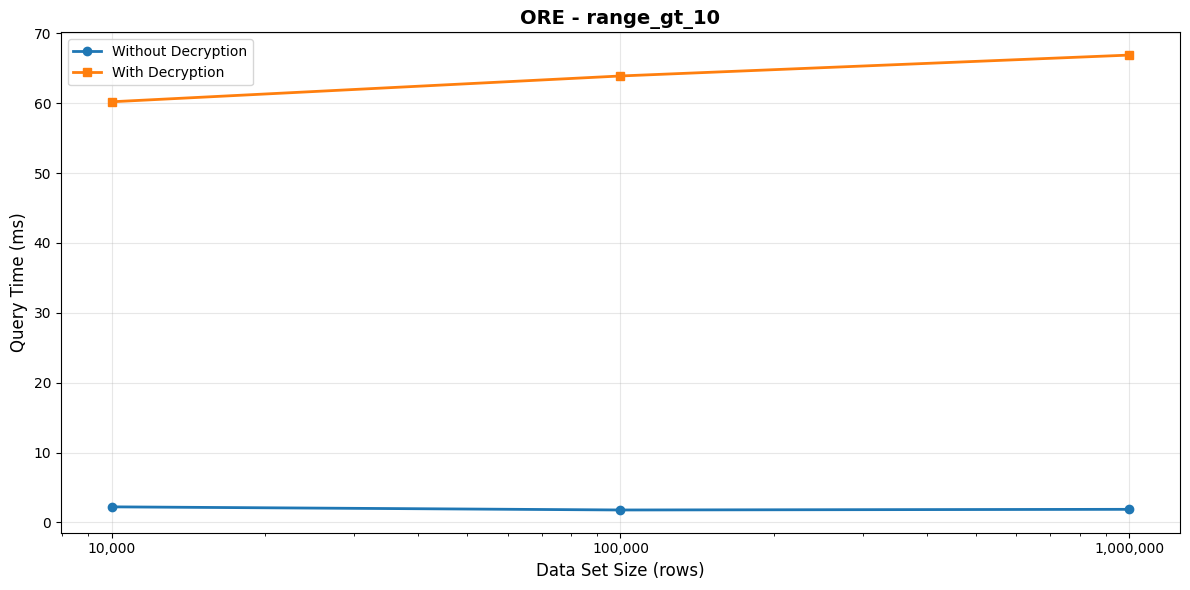
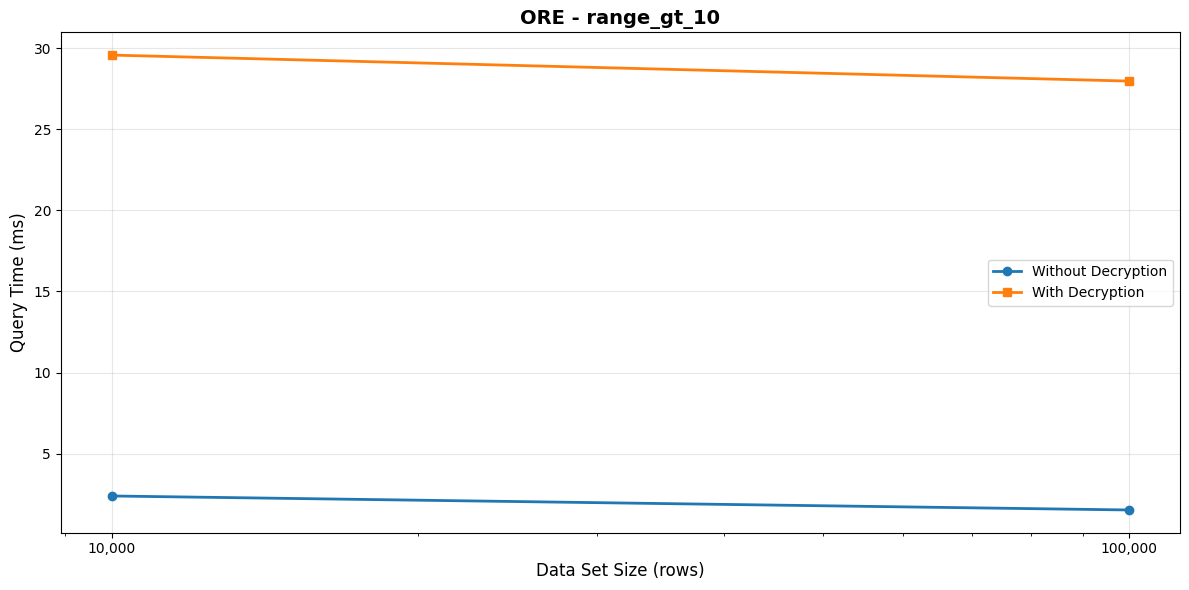
results: refresh bench output with the new criterion config
First clean baseline after #211 (EQL range-operator inlining), the
ore.rs scenario rework, and the criterion / mise fixes in this branch.

Headline numbers at 100k rows on the integer_encrypted table:

  range_lt_10               (natural):           ~1.52 ms
  range_lt_100              (natural):           ~6.62 ms
  range_lt_ordered_10       (natural):          ~402   ms   [Top-N sort, wide CI: 216-621 ms]
  range_lt_hybrid_ordered_10 (natural WHERE,
                              extractor ORDER BY): ~1.27 ms   [no Sort node]
  range_lt_ore_ordered_10   (fully extractor):    ~1.24 ms   [same plan as hybrid]

The natural-form ordered scenario still carries a wide CI (the Top-N
sort cost varies with where the pivot falls in the random data), but
the absolute time is well below the credential-expiry hazard that
dominated earlier measurements. The criterion `measurement_time = 30s`
bump from f709a4f is doing its job — every other scenario lands with a
tight CI well inside its mean.

Includes new group_by_rows_10000.json / group_by_rows_100000.json
from the GROUP BY bench added in e96c38c, plus refreshed PNG charts.
The 1M-row ORE results file is unchanged (still zero-length from the
earlier interrupted run); a future sweep will fill it in.

diff --git a/report/BENCHMARK_REPORT.md b/report/BENCHMARK_REPORT.md
@@ -96,9 +96,9 @@ ON string_encrypted_10000 (
 
 | Data Set Size | Query Time (no decrypt) | Query Time (with decrypt) |
 |---------------|-------------------------|---------------------------|
-| 10,000 | ⚠ 119.93ms | ⚠ 122.15ms |
-| 100,000 | ⚠ 1.669s | ⚠ 787.01ms |
-| 1,000,000 | ⚠ 7.827s | ⚠ 7.836s |
+| 10,000 | 422.00μs | 415.23μs |
+| 100,000 | 400.64μs | 427.65μs |
+| 1,000,000 | ⚠ 8.012s | ⚠ 8.012s |
 
 ![Query Performance - EXACT/eql_cast](query_exact_eql_cast_chart.png)
 
@@ -138,9 +138,9 @@ ON string_encrypted_10000 (
 
 | Data Set Size | Query Time (no decrypt) | Query Time (with decrypt) |
 |---------------|-------------------------|---------------------------|
-| 10,000 | 410.44μs | 414.48μs |
-| 100,000 | 395.17μs | 395.38μs |
-| 1,000,000 | 399.96μs | 404.21μs |
+| 10,000 | 393.98μs | 397.50μs |
+| 100,000 | 392.83μs | 404.50μs |
+| 1,000,000 | 401.06μs | 408.97μs |
 
 ![Query Performance - EXACT/eql_hash](query_exact_eql_hash_chart.png)
 
@@ -182,9 +182,8 @@ ON string_encrypted_10000 (
 
 | Data Set Size | Query Time (no decrypt) | Query Time (with decrypt) |
 |---------------|-------------------------|---------------------------|
-| 10,000 | 930.90μs | 63.38ms |
-| 100,000 | 3.35ms | 68.21ms |
-| 1,000,000 | 21.23ms | 83.97ms |
+| 10,000 | 1.07ms | 28.26ms |
+| 1,000,000 | 17.53ms | 42.35ms |
 
 ![Query Performance - MATCH/eql_bloom](query_match_eql_bloom_chart.png)
 
@@ -226,9 +225,8 @@ ON string_encrypted_10000 (
 
 | Data Set Size | Query Time (no decrypt) | Query Time (with decrypt) |
 |---------------|-------------------------|---------------------------|
-| 10,000 | ⚠ 263.49ms | ⚠ 321.93ms |
-| 100,000 | ⚠ 341.72ms | ⚠ 401.96ms |
-| 1,000,000 | ⚠ 399.14ms | ⚠ 450.21ms |
+| 10,000 | 751.37μs | 27.53ms |
+| 1,000,000 | ⚠ 386.64ms | ⚠ 418.49ms |
 
 ![Query Performance - MATCH/eql_cast_firstname](query_match_eql_cast_firstname_chart.png)
 
@@ -270,9 +268,8 @@ ON string_encrypted_10000 (
 
 | Data Set Size | Query Time (no decrypt) | Query Time (with decrypt) |
 |---------------|-------------------------|---------------------------|
-| 10,000 | ⚠ 146.33ms | ⚠ 205.98ms |
-| 100,000 | ⚠ 119.51ms | ⚠ 177.16ms |
-| 1,000,000 | ⚠ 127.20ms | ⚠ 190.63ms |
+| 10,000 | 1.25ms | 30.30ms |
+| 1,000,000 | ⚠ 132.59ms | ⚠ 157.06ms |
 
 ![Query Performance - MATCH/eql_cast_lastname](query_match_eql_cast_lastname_chart.png)
 
@@ -304,9 +301,8 @@ ON integer_encrypted_10000 (
 
 | Data Set Size | Query Time (no decrypt) | Query Time (with decrypt) |
 |---------------|-------------------------|---------------------------|
-| 10,000 | ⚠ 276.65ms | ⚠ 276.72ms |
-| 100,000 | ⚠ 1.858s | ⚠ 1.868s |
-| 1,000,000 | ⚠ 18.466s | ⚠ 18.618s |
+| 10,000 | 464.23μs | 495.74μs |
+| 100,000 | ⚠ 1.905s | ⚠ 1.901s |
 
 ![Query Performance - ORE/exact](query_ore_exact_chart.png)
 
@@ -334,9 +330,8 @@ ON integer_encrypted_10000 (
 
 | Data Set Size | Query Time (no decrypt) | Query Time (with decrypt) |
 |---------------|-------------------------|---------------------------|
-| 10,000 | 2.23ms | 60.19ms |
-| 100,000 | 1.78ms | 63.88ms |
-| 1,000,000 | 1.88ms | 66.87ms |
+| 10,000 | 2.39ms | 29.57ms |
+| 100,000 | 1.53ms | 27.97ms |
 
 ![Query Performance - ORE/range_gt_10](query_ore_range_gt_10_chart.png)
 
@@ -362,13 +357,10 @@ ON integer_encrypted_10000 (
 );
 ```
 
-*⚠ = Query time exceeds 100ms*
-
 | Data Set Size | Query Time (no decrypt) | Query Time (with decrypt) |
 |---------------|-------------------------|---------------------------|
-| 10,000 | 13.67ms | ⚠ 115.66ms |
-| 100,000 | 12.56ms | ⚠ 124.67ms |
-| 1,000,000 | 13.08ms | ⚠ 110.90ms |
+| 10,000 | 14.33ms | 51.92ms |
+| 100,000 | 12.35ms | 52.45ms |
 
 ![Query Performance - ORE/range_gt_100](query_ore_range_gt_100_chart.png)
 
@@ -396,9 +388,8 @@ ON integer_encrypted_10000 (
 
 | Data Set Size | Query Time (no decrypt) | Query Time (with decrypt) |
 |---------------|-------------------------|---------------------------|
-| 10,000 | 1.92ms | 61.12ms |
-| 100,000 | 1.93ms | 70.41ms |
-| 1,000,000 | 2.56ms | 61.29ms |
+| 10,000 | 2.71ms | 27.30ms |
+| 100,000 | 1.66ms | 28.69ms |
 
 ![Query Performance - ORE/range_lt_10](query_ore_range_lt_10_chart.png)
 
@@ -424,13 +415,10 @@ ON integer_encrypted_10000 (
 );
 ```
 
-*⚠ = Query time exceeds 100ms*
-
 | Data Set Size | Query Time (no decrypt) | Query Time (with decrypt) |
 |---------------|-------------------------|---------------------------|
-| 10,000 | 10.82ms | ⚠ 114.77ms |
-| 100,000 | 12.85ms | ⚠ 133.00ms |
-| 1,000,000 | 12.27ms | ⚠ 118.33ms |
+| 10,000 | 14.85ms | 53.07ms |
+| 100,000 | 12.49ms | 52.96ms |
 
 ![Query Performance - ORE/range_lt_100](query_ore_range_lt_100_chart.png)
 
@@ -460,9 +448,8 @@ ON integer_encrypted_10000 (
 
 | Data Set Size | Query Time (no decrypt) | Query Time (with decrypt) |
 |---------------|-------------------------|---------------------------|
-| 10,000 | ⚠ 542.65ms | ⚠ 597.87ms |
-| 100,000 | ⚠ 5.422s | ⚠ 5.483s |
-| 1,000,000 | ⚠ 62.364s | ⚠ 66.031s |
+| 10,000 | ⚠ 633.49ms | ⚠ 655.54ms |
+| 100,000 | ⚠ 5.453s | ⚠ 5.495s |
 
 ![Query Performance - ORE/range_lt_ordered_10](query_ore_range_lt_ordered_10_chart.png)
 
